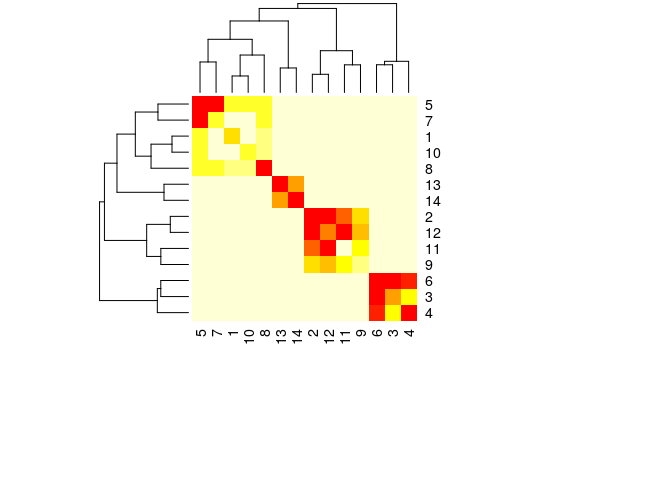
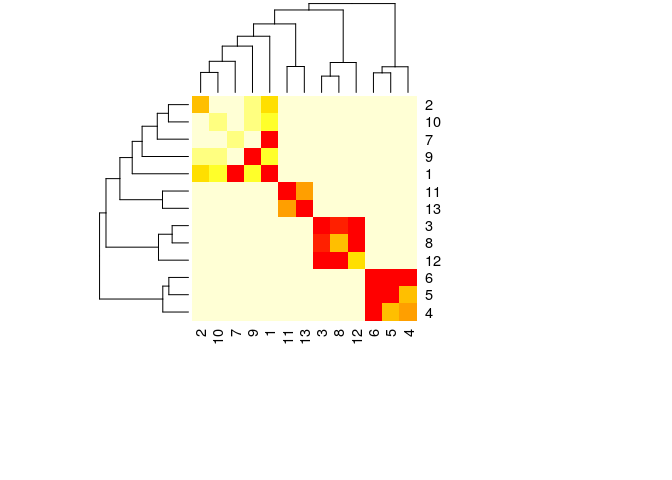
automating python dir

Changed region(s): [[0.125, 0.0, 0.6562, 0.7188]]

diff --git a/examples/codex_tutorial.md b/examples/codex_tutorial.md
@@ -15,18 +15,6 @@ Dataframe converted from FCS files at <http://welikesharingdata.blob.core.window
 
 ``` r
 data("codex_balbc1")
-protein_expr <- cbind(codex_balbc1[, 1:29], MHCII=codex_balbc1$MHCII)
-blanks <- codex_balbc1[,grepl("blank", colnames(codex_balbc1))]
-size <- codex_balbc1$size.size
-
-# xy coordinates are currently relative to tile, we want them absolute
-x <- codex_balbc1$X.X
-x <- floor((codex_balbc1$tile_nr.tile_nr-1)/9) * max(codex_balbc1$X.X) + x
-y <- codex_balbc1$Y.Y
-y <- ((codex_balbc1$tile_nr.tile_nr - 1) %% 9) * max(codex_balbc1$Y.Y) + y
-z <- codex_balbc1$Z.Z
-spatial <- cbind(x,y,z)
-row.names(spatial) <- row.names(protein_expr)
 ```
 
 ### Take corner section of CODEX data
@@ -34,11 +22,11 @@ row.names(spatial) <- row.names(protein_expr)
 The clustering and Adjacency Score functions are fairly slow on large numbers of cells.
 
 ``` r
-codex_subset <- x < 3000 & y < 3000
-protein_expr <- protein_expr[codex_subset,]
-blanks <- blanks[codex_subset,]
-size <- size[codex_subset]
-spatial <- spatial[codex_subset,]
+codex_subset <- codex_spatial$x < 3000 & codex_spatial$y < 3000
+codex_protein <- codex_protein[codex_subset,]
+codex_blanks <- codex_blanks[codex_subset,]
+codex_size <- codex_size[codex_subset]
+codex_spatial <- codex_spatial[codex_subset,]
 ```
 
 Create object to hold data
@@ -47,10 +35,10 @@ Create object to hold data
 The STvEA.data class conveniently handles the required data frames and matrices between function calls.
 
 ``` r
-stvea_object <- SetDataCODEX(codex_protein = protein_expr,
-                             codex_blanks = blanks,
-                             codex_size = size,
-                             codex_spatial = as.data.frame(spatial))
+stvea_object <- SetDataCODEX(codex_protein = codex_protein,
+                             codex_blanks = codex_blanks,
+                             codex_size = codex_size,
+                             codex_spatial = codex_spatial)
 ```
 
 Filter and clean protein protein\_expr
@@ -87,8 +75,8 @@ Use the KNN indices from UMAP to perform Louvain clustering
 stvea_object <- ClusterCODEX(stvea_object, k=30)
 ```
 
-Visualize clustering and protein expression on UMAP
----------------------------------------------------
+Visualize clustering and protein expression
+-------------------------------------------
 
 Color each cell in the CODEX UMAP embedding with its cluster assignment. Cells in gray were not assigned to any cluster.
 
@@ -125,8 +113,8 @@ Assess which pairs of clusters often appear in adjacent cells
 cluster_adj <- AdjScoreClustersCODEX(stvea_object, k=3)
 ```
 
-    ## Creating permutation matrices - 0.035 seconds
-    ## Computing adjacency score for each feature pair - 0.411 seconds
+    ## Creating permutation matrices - 0.032 seconds
+    ## Computing adjacency score for each feature pair - 0.36 seconds
 
 ``` r
 AdjScoreHeatmap(cluster_adj)
@@ -140,8 +128,8 @@ Assess which pairs of proteins are often highly expressed in adjacent cells
 protein_adj <- AdjScoreProteins(stvea_object, k=3, num_cores=8)
 ```
 
-    ## Creating permutation matrices - 10.863 seconds
-    ## Computing adjacency score for each feature pair - 36.784 seconds
+    ## Creating permutation matrices - 11.502 seconds
+    ## Computing adjacency score for each feature pair - 37.287 seconds
 
 ``` r
 AdjScoreHeatmap(protein_adj)
